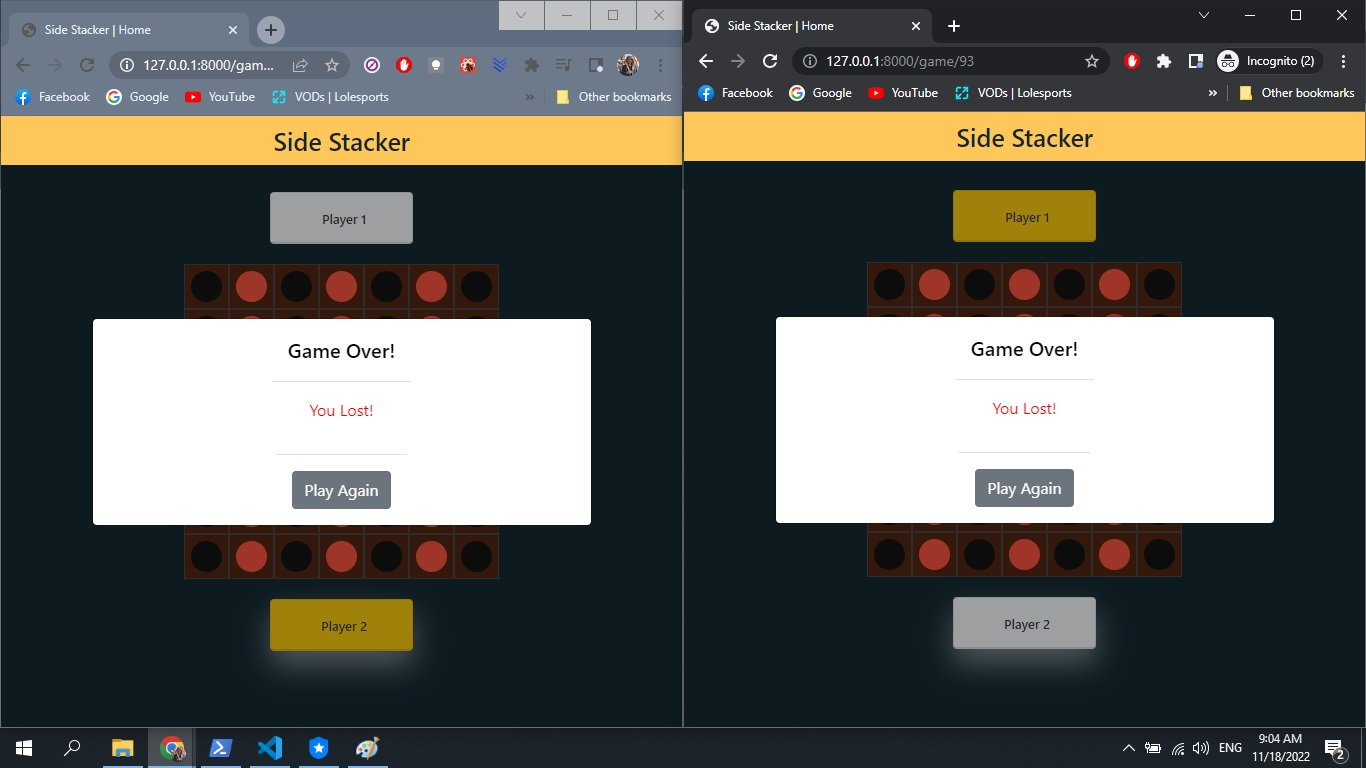
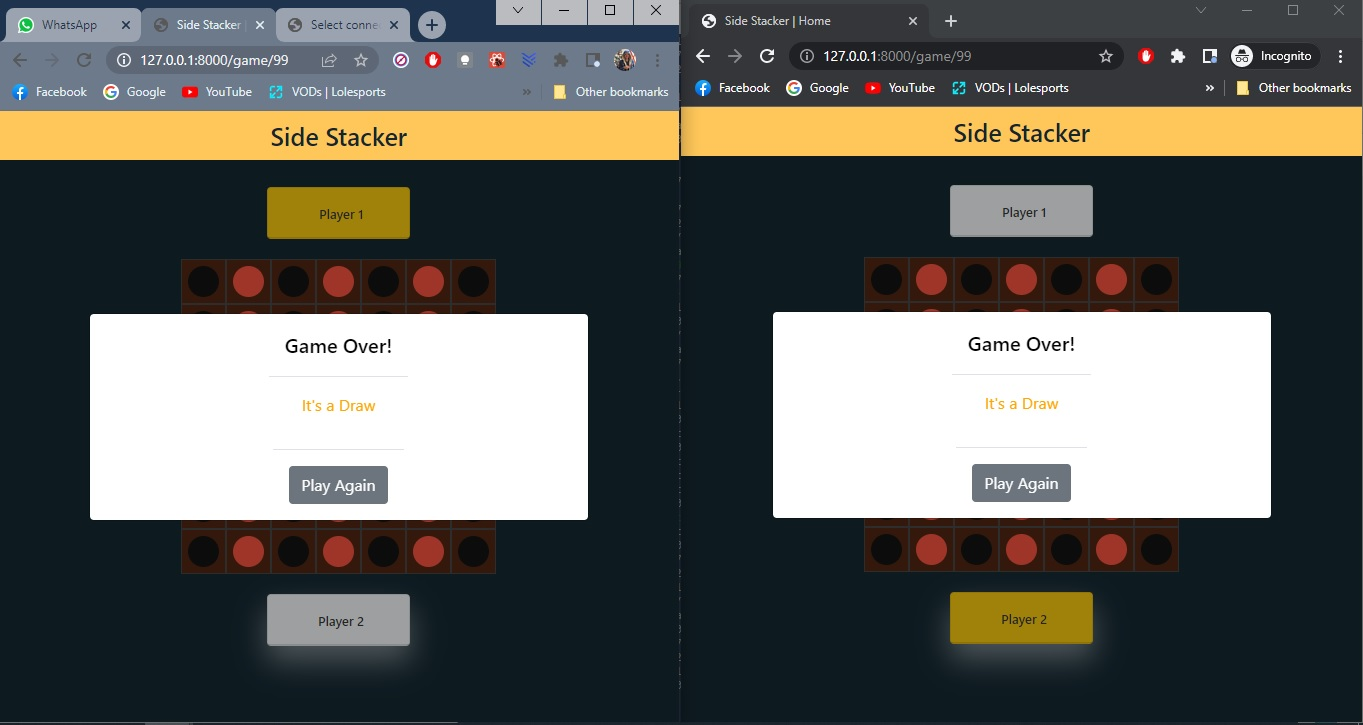
doc and todo edits

diff --git a/assets/src/Row.js b/assets/src/Row.js
@@ -24,18 +24,15 @@ class Row extends React.Component {
   }
 
   render() {
-    let valueCopy = this.props.value.slice();
+    let valueCopy = this.props.value.slice(); /// [0,0,0,0,0]
     if (this.state.hovering && this.props.is_turn) {
-      // const indexOfEmptyPiece = valueCopy[0];
-      // if (indexOfEmptyPiece !== -1) {
-      //   valueCopy[indexOfEmptyPiece] = this.props.player === 1 ? 3 : 4;
-      // }
+      // 1 -> black, 2 -> red, 3 -> gray, 4 -> pinkish
       valueCopy[0] = this.props.player === 1 ? 3 : 4;
       valueCopy[6] = this.props.player === 1 ? 3 : 4;
     }
 
     var key = 0;
-    const pieces = valueCopy.map((item, index) => {
+    const pieces = valueCopy.map((item) => {
       key += 1;
       return (
         <Piece

diff --git a/assets/src/Board.js b/assets/src/Board.js
@@ -4,13 +4,13 @@ import { is_turn } from "./game_utility";
 
 function Board(props) {
   let counter = -1;
-  const columns = props.board.map((col) => {
+  const rows = props.board.map((row) => {
     counter += 1;
     return (
       <Row
         player={props.player}
         is_turn={is_turn(props.board, props.player)}
-        value={col}
+        value={row}
         key={counter}
         rowNum={counter}
         clickHandler={props.SendMove}
@@ -19,7 +19,7 @@ function Board(props) {
   });
   return (
     <div className="board" data-testid="game">
-      {columns}
+      {rows}
     </div>
   );
 }

diff --git a/assets/src/App.js b/assets/src/App.js
@@ -131,10 +131,14 @@ class App extends React.Component {
               content:
                 parseInt(this.state.player) == parseInt(this.state.winner)
                   ? "You Won!"
+                  : parseInt(this.state.winner) == 3
+                  ? "It's a Draw"
                   : "You Lost!",
               color:
                 parseInt(this.state.player) == parseInt(this.state.winner)
                   ? "green"
+                  : parseInt(this.state.winner) == 3
+                  ? "orange"
                   : "red",
             }}
           />

diff --git a/assets/src/game_utility.js b/assets/src/game_utility.js
@@ -1,0 +1,10 @@
+export function is_turn(board, player) {
+  //TODO No your turn if game is over
+  let arrayOfSum = board.map((arr) => arr.reduce(countNonZeros, 0)); //0 makes it start at 0
+  let sum = arrayOfSum.reduce(sumReducer);
+  return sum % 2 == player - 1;
+}
+
+const countNonZeros = (accumulator, currentValue) =>
+  accumulator + (currentValue == 0 ? 0 : 1);
+const sumReducer = (accumulator, currentValue) => accumulator + currentValue;

diff --git a/DOC.md b/DOC.md
@@ -9,7 +9,21 @@ covered in the readme.md file
 
 ## function 
 
-
+- lobby just choose to start the game 
+- game setup you choose start type as player 1 or 2 
+- game is created in the back ground every player is assigned a random id and the session id is set and cookies get saved 
+- all the above are in normal Django HTML/CSS templates that are rendered no react here 
+- after the game is created in the background you get redirected to the game which will invoke the React app /static/the_game/index-bundle.js'
+- the react app will display the game info and manage the socket communication and display the updated accordingly 
+- the game status is managed by numbers  as follows 
+    - 0 = no winner the game keeps going  1 = player one wins  2 = player 2 wins  3 = a draw
+- when the game ends no one can make a move 
+- currently the only way to invite is to copy the URL after you create a game and then send it to someone else 
+- the session will allow only 2 players to be connected 
+- note that the Draw is implemented  but the case of a draw in a side stake is almost impossible since we have 7*7 board
+- i have tested the draw logic but I had to disable the winning logic and fill the board so that only one piece left then add it to get a draw 
+    check the pictures provided in this directory 
+- a player can add peices to the sides  but only the first cell which will shift other chells accrodingly 
 
 
 ## storage
@@ -17,9 +31,12 @@ covered in the readme.md file
 I have chosen Postgres because i am using a Json field
 
 ## notes 
-i used function based views  because it gives me more control and can show you my work better 
-
-you will need a .env file which is provided via email
+- i used function based views  because it gives me more control and can show you my work better 
+- read readme file carefully 
+- check the TODO.md file 
+- this app was done in a very short time so i didn't have the time to implement all the things i wanted 
+- i initially used numpy but it make lots of problems with postgresql JSONField so i decided to ditch it 
+- you will need a .env like the one called .env.example in this dir
 
 ## License
 [by khaled yasser](kikokhaled.u@gmail.com)

diff --git a/TODO.md b/TODO.md
@@ -1,10 +1,9 @@
-1 - set Z-INDEX to navbar [x]
-2 - Player Cards Design [X]
-3 - Panal Info for the game [X]
-4 - Board Design [x]
-5 - Turns Indicator [X]
-6 - Toaster for Errors [X]
-7 - Hovering [X]
-8 - Implement POPUP
-
----
+# TODO list 
+- add a specteator feature 
+- add an invitation system 
+- users accounts and ingame currecny 
+- lose or earn in game moeny on win/loss
+- statistics page for admins 
+- statestics for user and user porfile 
+- frinds and chat system
+- make the board dynamic  so the player can choose the number of rows and cols 
